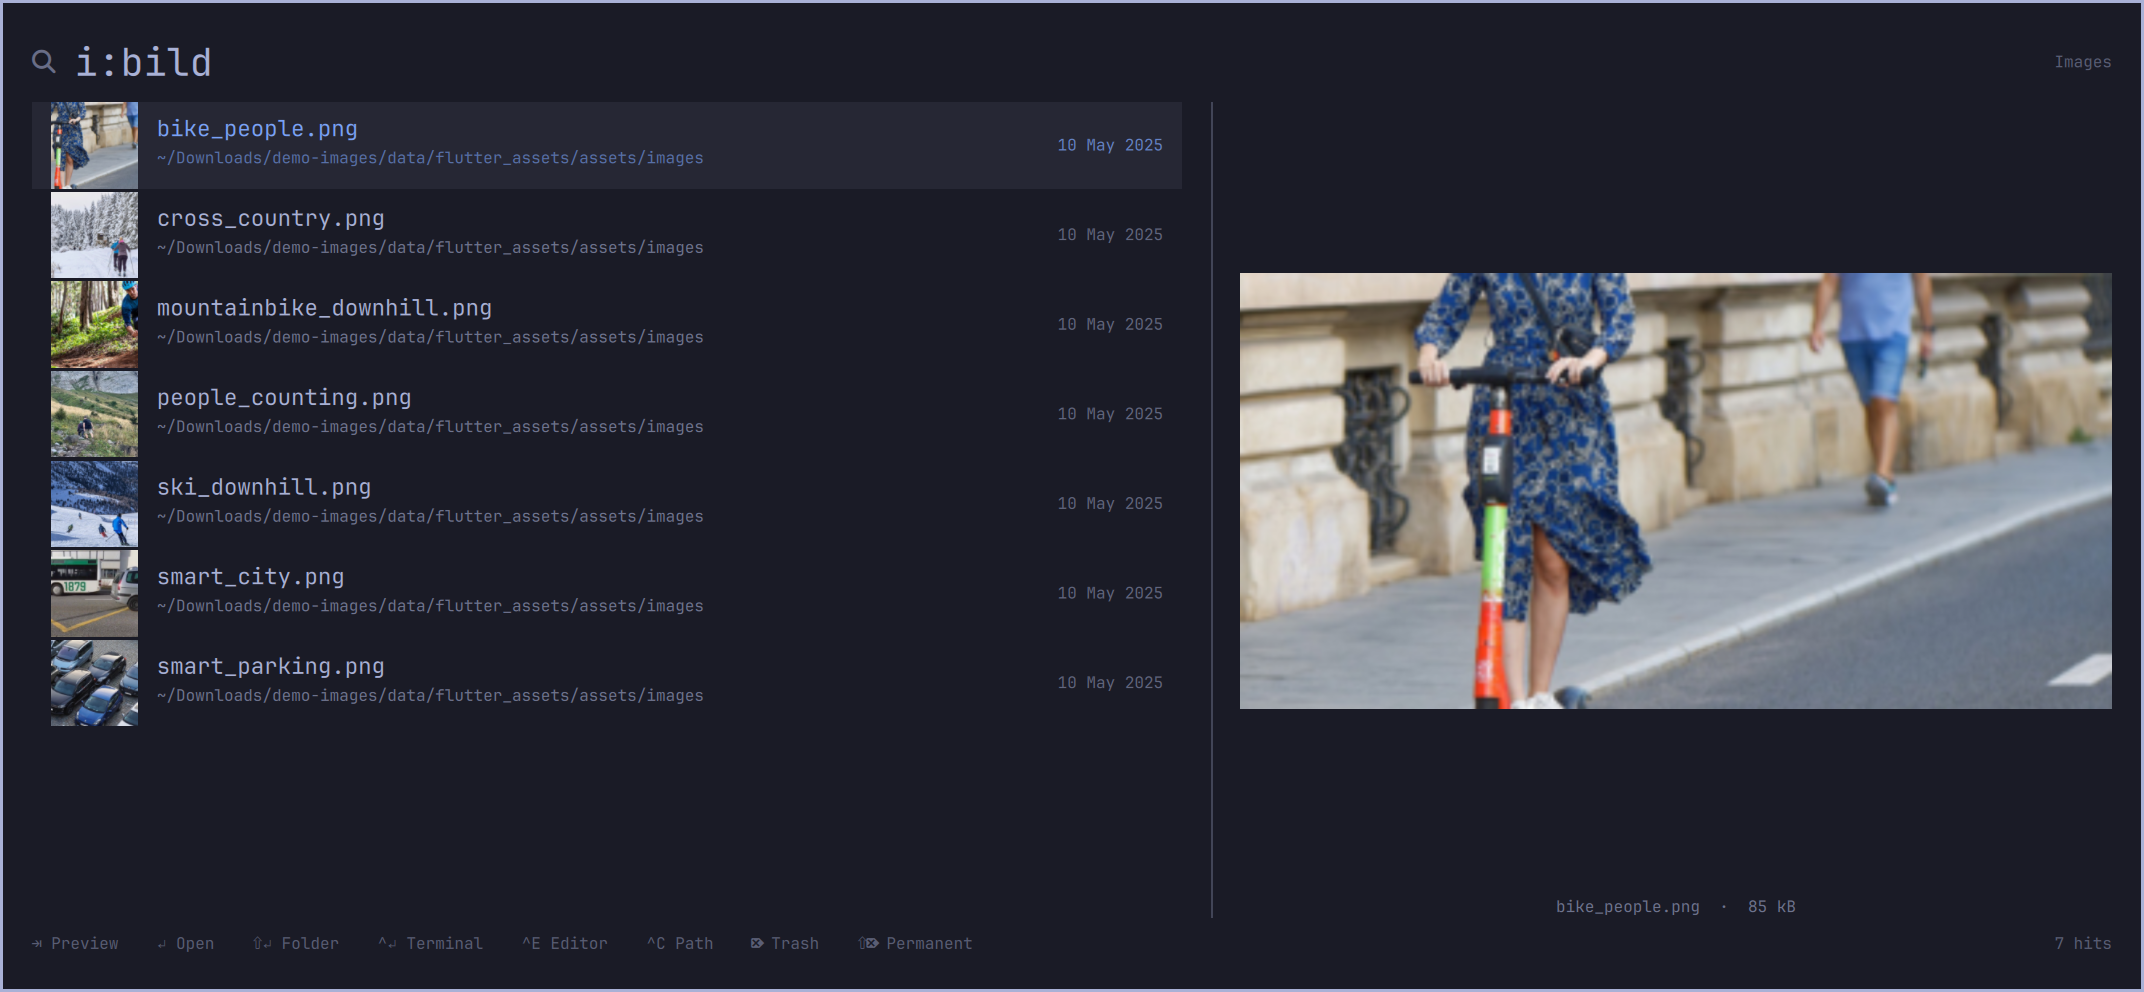
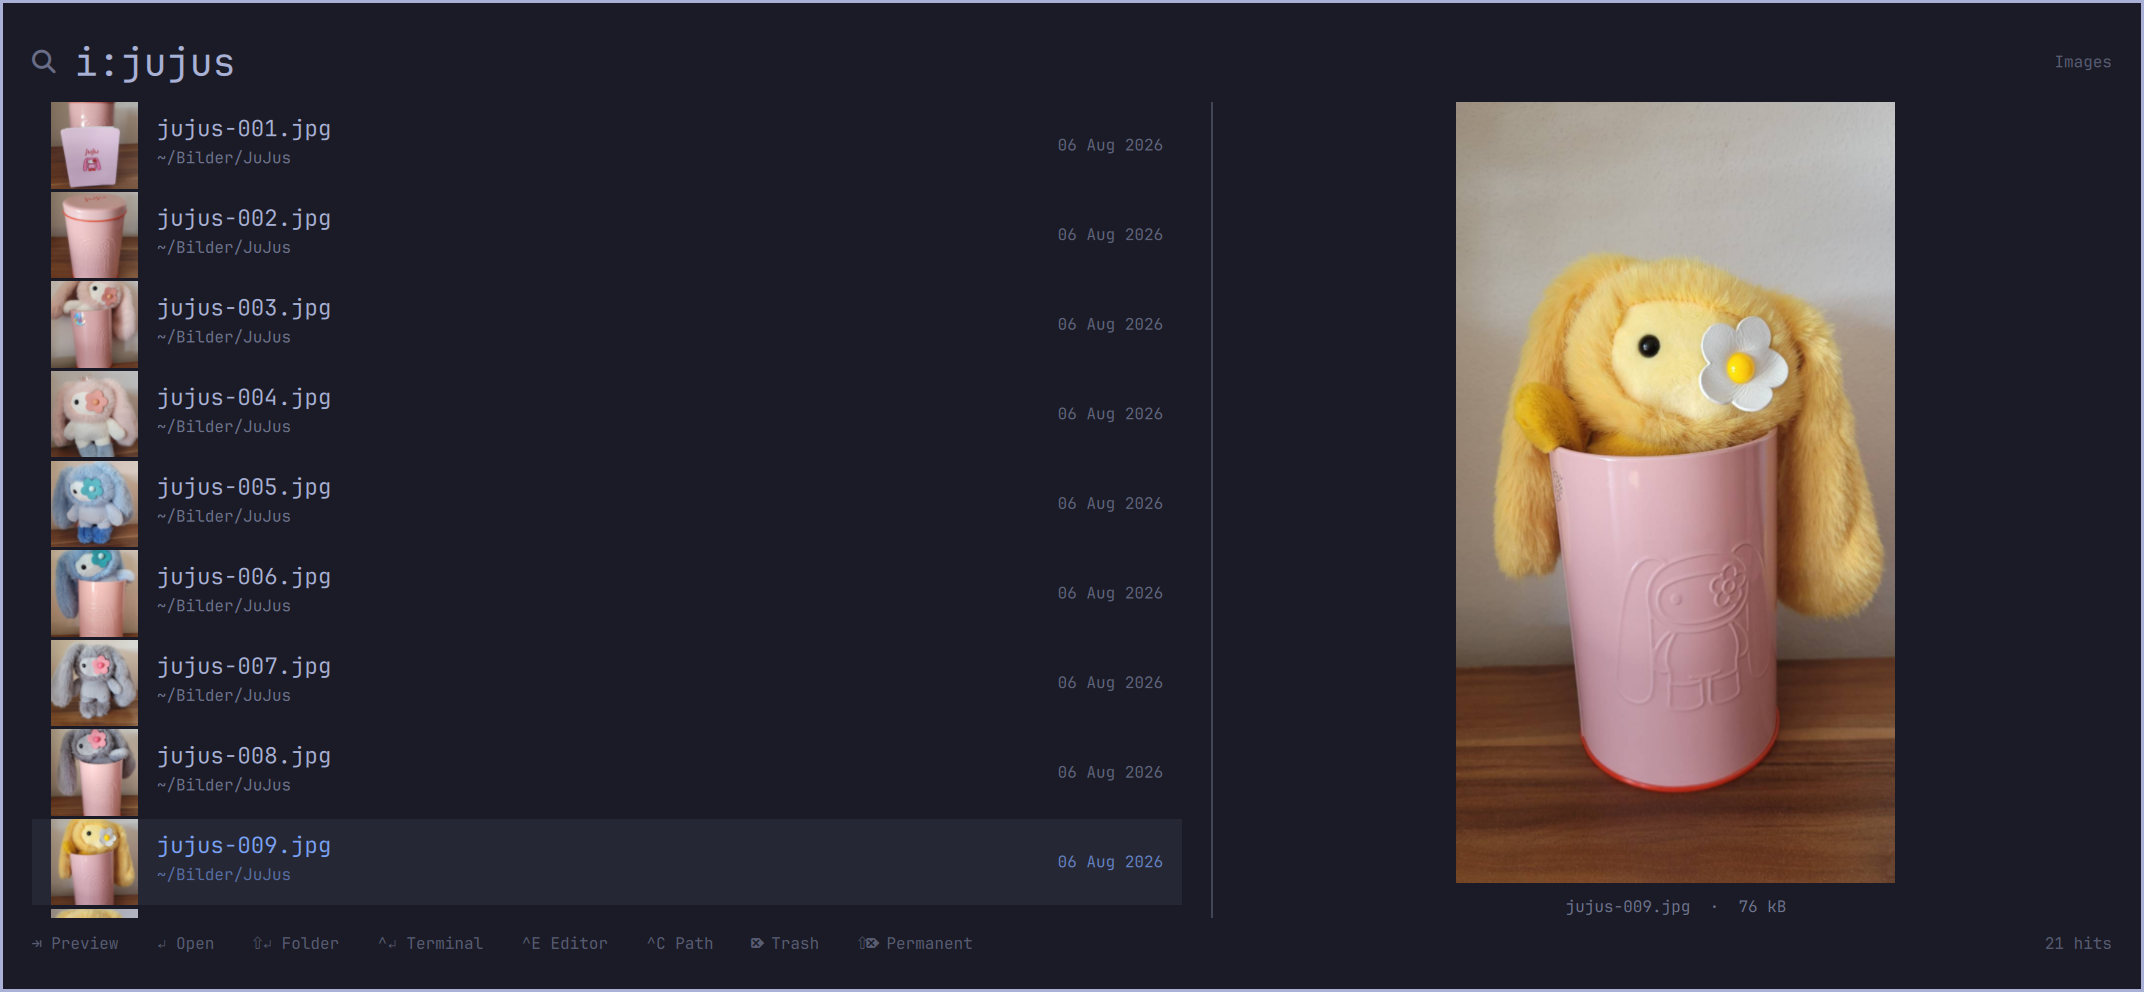
Make the d: and i: prefixes match filenames too
localsearch's --images and --documents filters search only what the extractor
pulled out of a file: an image's dc:title, a document's text. Neither ever
looks at the filename, so "i:holiday" came up empty for a folder full of
holiday photos, which reads as broken rather than as a narrow filter.

Both modes now also run a --files pass and keep the rows whose extension fits
the type, so the prefix means "results of this type" and matches names as well
as content. Verified: i:jujus went from 0 hits to 21, i:bild from 7 to 40, and
d:rechnung still returns documents only (38 pdf, 2 xlsx).

Also replaces the preview with images the author owns.

diff --git a/README.md b/README.md
@@ -16,7 +16,9 @@ home directory, but nothing exposes that index to the keyboard. This does.
   whose text says "invoice" still shows up.
 - **Prefixes** to narrow the search: `f:` filenames, `o:` folders,
   `d:` documents, `i:` images. Without one it searches content *and* names,
-  filename matches first.
+  filename matches first. `d:` and `i:` restrict the results to that file type
+  and match both its filename and whatever the index extracted from it — an
+  image's embedded title, a document's text.
 - **Thumbnails** for images, glyphs for everything else, at full row height.
 - **Modified date** per hit, `today HH:mm` / `yesterday HH:mm` for recent files.
 - **Preview pane** on <kbd>Tab</kbd>: images enlarged, folders listed and
